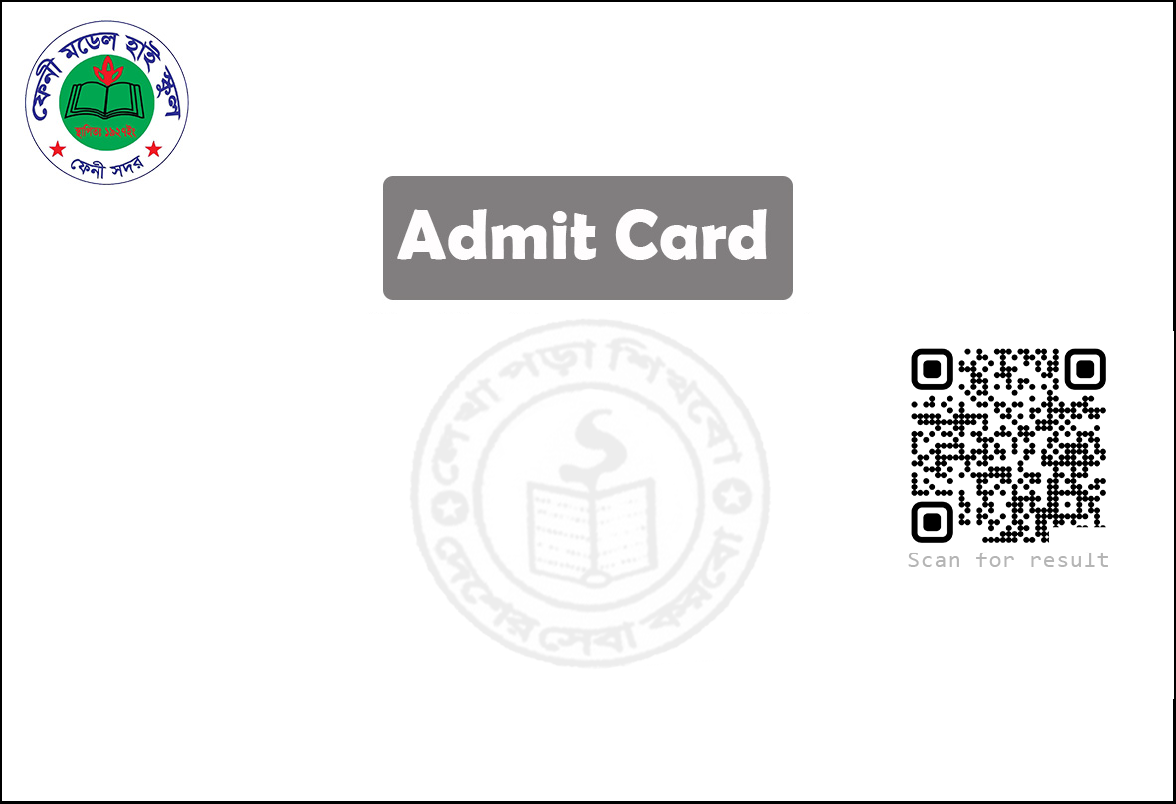
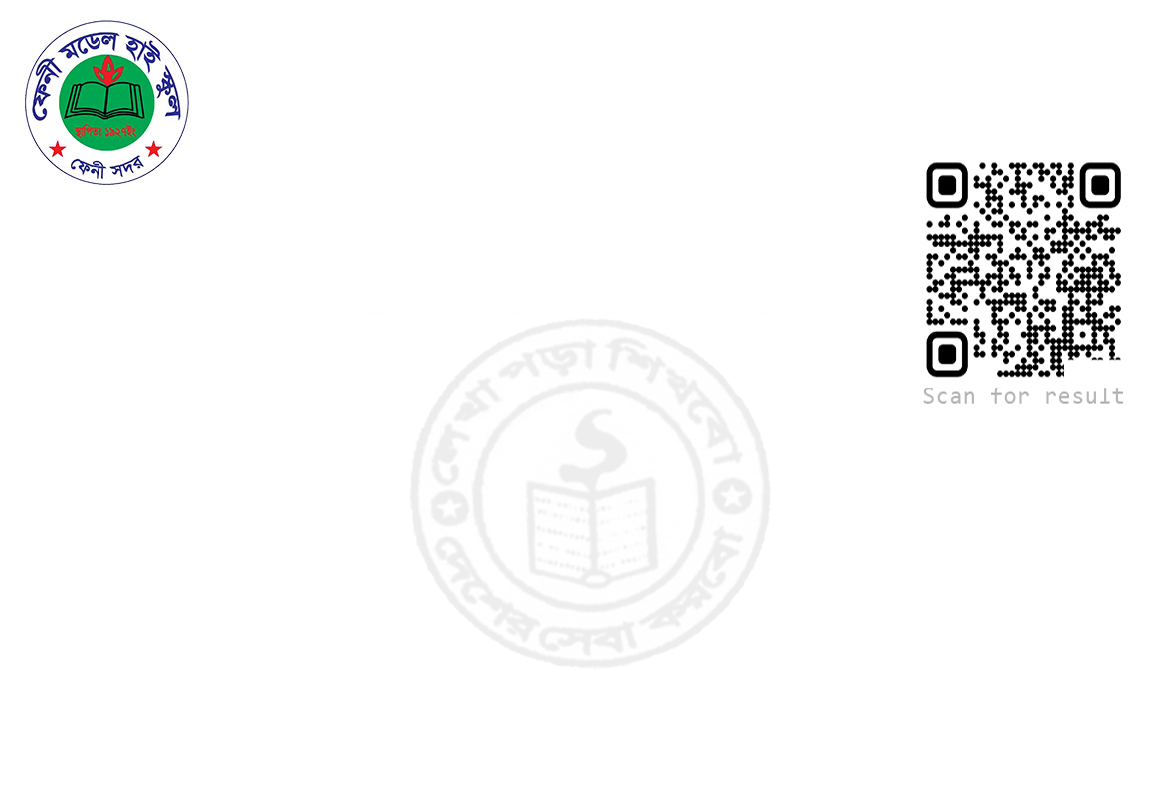
okk

diff --git a/admit/print_admit.html b/admit/print_admit.html
@@ -15,7 +15,7 @@
     h1{ margin:.25rem 0; text-align:center; font-size:1.1rem }
   .card-wrap{ display:flex; justify-content:center; padding:1rem }
   /* Single-card preview: keep exact card ratio so mm positions match the template */
-  .card{ position:relative; width:min(210mm, 95vw); aspect-ratio: 210 / 115; background:#fff url('./admit.png') center no-repeat; background-size:100% 100%; border:1px solid #e5e7eb; box-shadow:0 10px 30px rgba(0,0,0,.08) }
+  .card{ position:relative; width:min(210mm, 95vw); aspect-ratio: 210 / 115; background:#fff url('./admit.png') center no-repeat; background-size:100% 100%; border:1px solid #000; box-shadow:0 10px 30px rgba(0,0,0,.08) }
   .t{ position:absolute; font-family:'Times New Roman', Times, serif; color:#111 }
   .labelled::before{ content: attr(data-label) ' : '; font-weight:700; margin-right:1.5mm }
   /* Positions tuned; adjust with query overrides if needed */
@@ -29,6 +29,11 @@
   /* School header */
   .t.school-name{ left:0; top:3.45mm; width:100%; text-align:center; font-weight:700; font-size:11.4mm; color:#111 }
   .t.school-address{ left:0; top:16mm; width:100%; text-align:center; font-weight:400; font-size:4.5mm; color:#111 }
+  /* Admit Card badge under address */
+  .t.admit-badge{ left:50%; top:22mm; transform:translateX(-50%);
+    background:#777; color:#fff; padding:4.2mm 10.5mm; border-radius:5.25mm;
+    font-family: system-ui, -apple-system, "Segoe UI", Arial, sans-serif;
+    font-weight:800; font-size:10.5mm; line-height:1; white-space:nowrap }
   /* Footer signatures */
   .t.class-teacher{ left:15mm; bottom:8mm; font-weight:600; font-size:4.5mm; color:#111 }
   .t.headteacher{ right:15mm; bottom:8mm; font-weight:600; font-size:4.5mm; color:#111 }
@@ -36,7 +41,7 @@
     .actions{ display:flex; gap:.5rem; justify-content:center; padding:1rem }
     .btn{ display:inline-flex; align-items:center; gap:.45rem; padding:.5rem .9rem; border:1px solid #d1d5db; border-radius:10px; background:#fff; cursor:pointer; font-weight:600 }
     .btn.primary{ background:#0ea5e9; border-color:#0284c7; color:#fff }
-  @media print{ header,.actions{ display:none !important } body{ background:#fff } @page{ size:A4; margin:10mm } .card-wrap{ padding:0 } .card{ box-shadow:none; border:none } }
+  @media print{ header,.actions{ display:none !important } body{ background:#fff } @page{ size:A4; margin:10mm } .card-wrap{ padding:0 } .card{ box-shadow:none; border:1px solid #000 } }
   </style>
   <script src="https://cdnjs.cloudflare.com/ajax/libs/html2pdf.js/0.10.1/html2pdf.bundle.min.js"></script>
   <script>
@@ -51,7 +56,7 @@
     function sanitizeFilename(s){ return String(s||'').replace(/[\\/:*?"<>|]+/g,'').trim().replace(/\s+/g,'_').slice(0,120) || 'Admit_Card'; }
     function downloadPDF(){
       if(typeof html2pdf === 'undefined'){ alert('PDF library not loaded. Please check your internet connection.'); return; }
-      const card = document.querySelector('.card');
+  const card = document.querySelector('.card');
       const name = (document.querySelector('.t.name')?.textContent || '').trim();
       const rollText = (document.querySelector('.t.roll')?.textContent || '').trim();
       const roll = rollText.split(/\s+IID\b/i)[0].trim();
@@ -62,7 +67,7 @@
         filename,
         image:        { type: 'jpeg', quality: 0.95 },
         html2canvas:  { scale: 2, useCORS: true, backgroundColor: null },
-        jsPDF:        { unit: 'mm', format: [210,115], orientation: 'landscape' }
+        jsPDF:        { unit: 'mm', format: [93,90], orientation: 'portrait' }
       };
       html2pdf().set(opt).from(card).save();
     }
@@ -98,6 +103,7 @@
   setPos('.t.exam','left','exam_left'); setPos('.t.exam','top','exam_top');
   setPos('.t.year','left','year_left'); setPos('.t.year','top','year_top');
   setPos('.t.iid','left','iid_left'); setPos('.t.iid','top','iid_top');
+  setPos('.t.admit-badge','left','badge_left'); setPos('.t.admit-badge','top','badge_top');
   // QR removed
     }
     window.addEventListener('DOMContentLoaded', render);
@@ -108,9 +114,11 @@
     <div class="container"><h1>Admit Card Preview</h1></div>
   </header>
   <div class="card-wrap">
-    <div class="card">
+    <div class="print-frame">
+      <div class="card">
       <div class="t school-name">Feni Model High School</div>
       <div class="t school-address">Trunk Road, Feni</div>
+  <div class="t admit-badge">Admit Card</div>
       <div class="t exam"></div>
       <div class="t year"></div>
       <div class="t name"></div>
@@ -120,6 +128,7 @@
       <div class="t iid"></div>
       <div class="t class-teacher">Class Teacher</div>
       <div class="t headteacher">Headteacher</div>
+      </div>
     </div>
   </div>
   <div class="actions">

diff --git a/admit/print_selected.html b/admit/print_selected.html
@@ -39,6 +39,8 @@
 		/* School header & footer (show on each card) */
 		.t.school-name{ left:0; top:3.45mm; width:100%; text-align:center; font-weight:700; font-size:11.4mm; color:#111 }
 		.t.school-address{ left:0; top:16mm; width:100%; text-align:center; font-weight:400; font-size:4.5mm; color:#111 }
+		/* Admit Card badge under address */
+		.t.admit-badge{ left:50%; top:22mm; transform:translateX(-50%); background:#777; color:#fff; padding:4.2mm 10.5mm; border-radius:5.25mm; font-family: system-ui, -apple-system, "Segoe UI", Arial, sans-serif; font-weight:800; font-size:10.5mm; line-height:1; white-space:nowrap }
 		.t.class-teacher{ left:15mm; bottom:8mm; font-weight:600; font-size:4.5mm; color:#111 }
 		.t.headteacher{ right:15mm; bottom:8mm; font-weight:600; font-size:4.5mm; color:#111 }
 
@@ -117,6 +119,7 @@
 						// School header
 						const tSchoolName = document.createElement('div'); tSchoolName.className='t school-name'; tSchoolName.textContent = 'Feni Model High School'; card.appendChild(tSchoolName);
 						const tSchoolAddress = document.createElement('div'); tSchoolAddress.className='t school-address'; tSchoolAddress.textContent = 'Trunk Road, Feni'; card.appendChild(tSchoolAddress);
+						const tBadge = document.createElement('div'); tBadge.className='t admit-badge'; tBadge.textContent = 'Admit Card'; card.appendChild(tBadge);
 						// Main content
 						const tExam = document.createElement('div'); tExam.className='t exam'; tExam.textContent = [exam, year].filter(Boolean).join(' - '); card.appendChild(tExam);
 						const tYear = document.createElement('div'); tYear.className='t year'; tYear.textContent = ''; card.appendChild(tYear);
